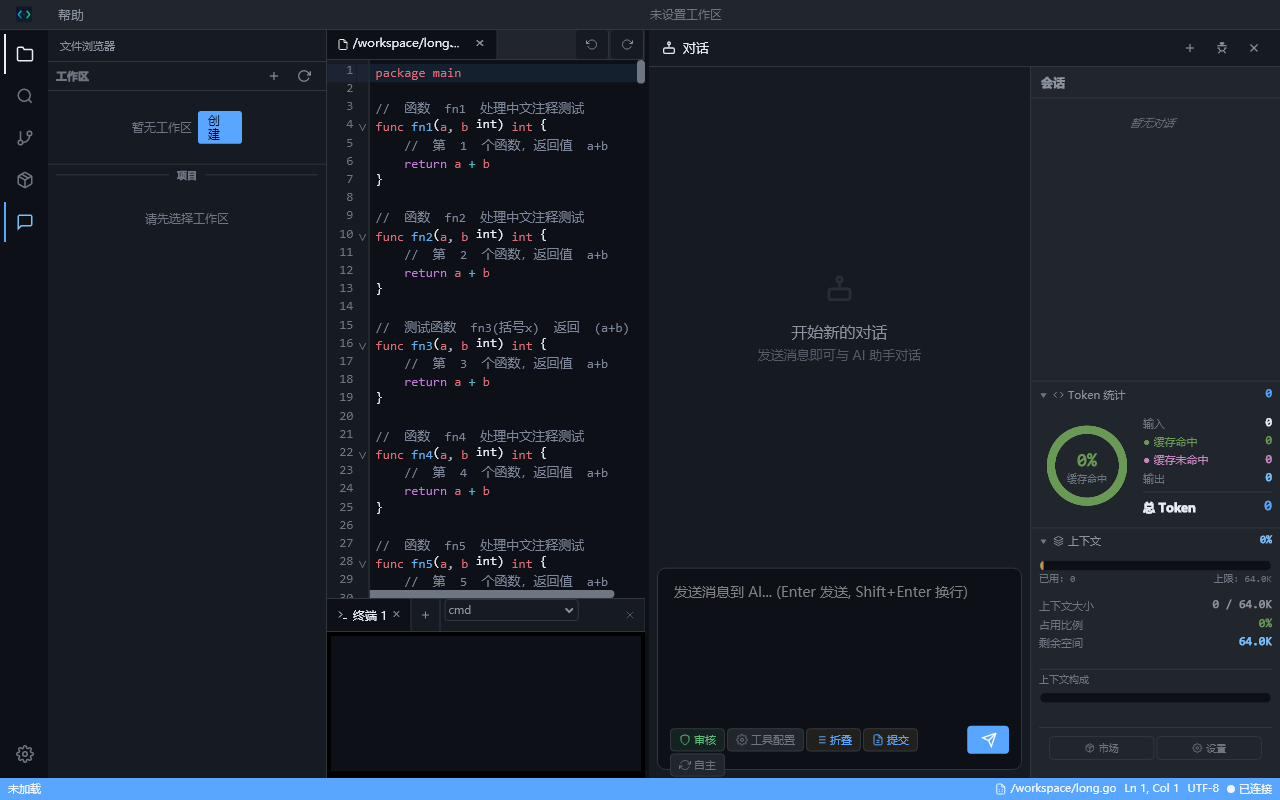
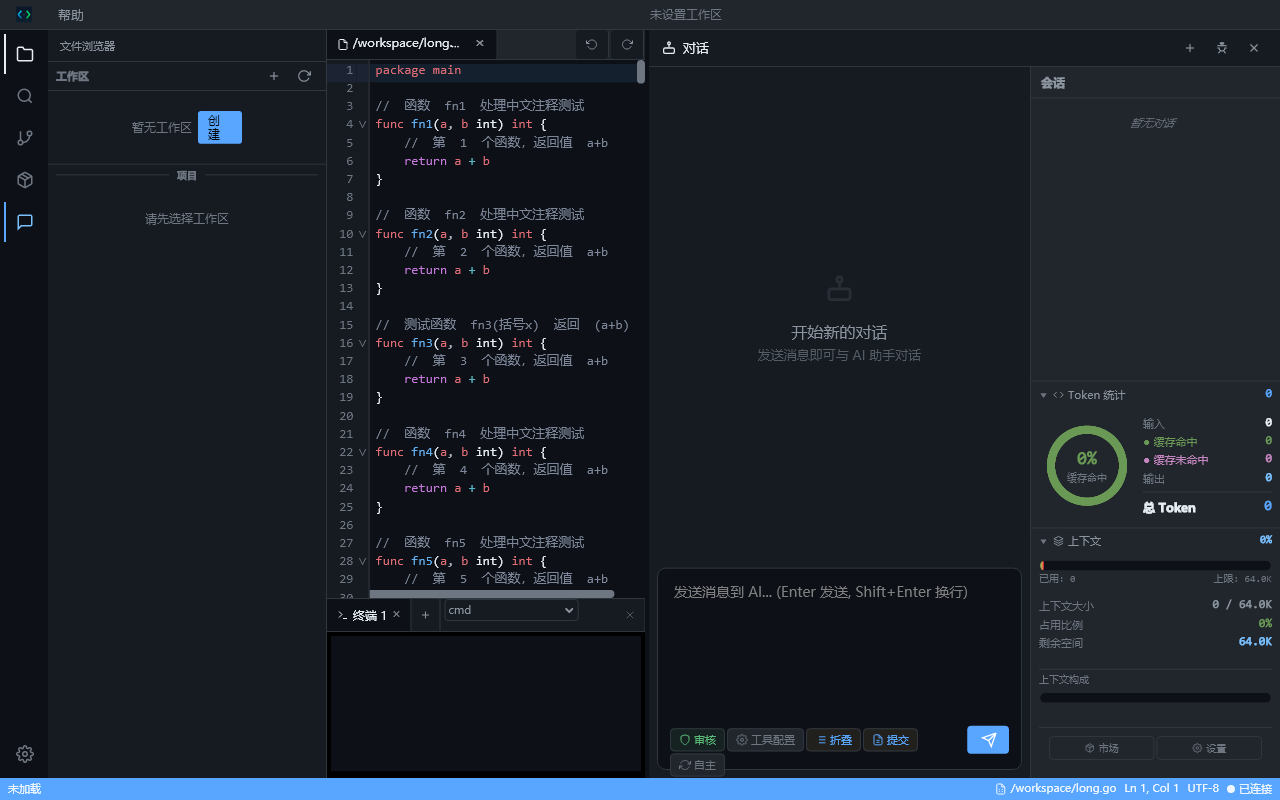
auto: fix(layout): 纯 inline span 不再叠加 centeringOffset——CM6

diff --git a/dev/desktop_probe/paren_probe.go b/dev/desktop_probe/paren_probe.go
@@ -1,0 +1,55 @@
+// Command paren_probe directly renders Consolas 13px glyphs through goskia
+// to quantify the ink height of '(' 'x' 'a' '{' 'n' ')' — verifying whether
+// parens render full-height (12px) vs x-height (8px) like in browsers.
+// Run: go run ./dev/desktop_probe/paren_probe.go
+package main
+
+import (
+	"fmt"
+	"os"
+	"path/filepath"
+
+	"github.com/hoonfeng/goskia/skia"
+)
+
+func main() {
+	wd, _ := os.Getwd()
+	outDir := filepath.Join(wd, "dev", "desktop_probe")
+
+	tf := skia.NewTypeface("Consolas", skia.FontStyle{Weight: 400, Width: 5, Slant: 0})
+	if tf == nil {
+		fmt.Println("CONSOLAS TF = NIL")
+		os.Exit(1)
+	}
+	font := skia.NewFont(tf, 13)
+
+	// Render each character on its own 24x22 tile, 7 chars across one row.
+	const tileW, tileH = 24, 22
+	chars := []string{"(", ")", "{", "}", "x", "a", "n", "f", "0", "I"}
+	for i, ch := range chars {
+		surf, err := skia.NewRasterSurfaceN32Premul(tileW, tileH)
+		if err != nil {
+			fmt.Printf("%s: surface err %v\n", ch, err)
+			continue
+		}
+		canvas := surf.Canvas()
+		paint := skia.NewPaint()
+		paint.SetColor(skia.ColorWhite)
+		canvas.DrawRect(skia.Rect{Left: 0, Top: 0, Right: tileW, Bottom: tileH}, paint) // white bg
+		paint.SetColor(skia.ColorBlack)
+		// baseline at y=18 (cap top ~y=7 for 13px Consolas)
+		canvas.DrawText(ch, 4, 18, font, paint)
+		png, err := surf.EncodePNG()
+		if err != nil {
+			fmt.Printf("%s: encode err %v\n", ch, err)
+			continue
+		}
+		path := filepath.Join(outDir, fmt.Sprintf("paren_tile_%d.png", i))
+		if err := os.WriteFile(path, png, 0o644); err != nil {
+			fmt.Printf("%s: write err %v\n", ch, err)
+			continue
+		}
+		fmt.Printf("TILE %s -> %s\n", ch, path)
+	}
+	fmt.Println("DONE")
+}
